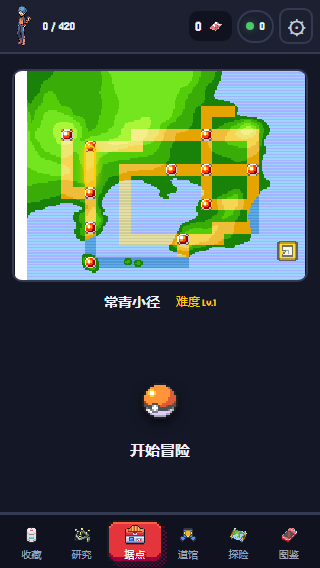
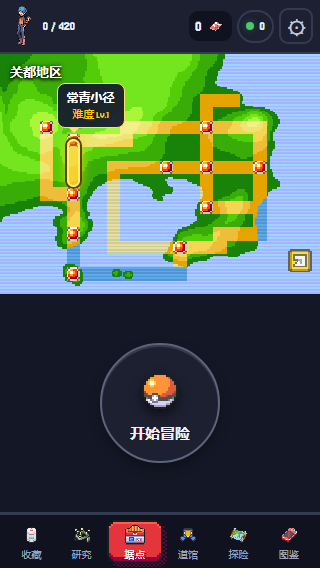
style(poke): edge-to-edge region map and circular adventure button

diff --git a/outputs/laozu-web/poke/app.js b/outputs/laozu-web/poke/app.js
@@ -39,7 +39,7 @@
   }
   function nav(){return `<nav class="bottom-nav" aria-label="主要导航">${[['collection','收藏'],['research','研究'],['home','据点'],['gym','道馆'],['wander','探险'],['dex','图鉴']].map(([id,label])=>btn('nav:'+id,icon(id)+`<span>${label}</span>`,view===id?'active':'')).join('')}</nav>`;}
   const badge=type=>`<span class="type type-${type}">${TYPES[type]||type}</span>`;
-  function home(){const chosen=M.s.selectedRoute==='viridian'||!!M.s.run;return `<main class="home-page region-home"><section class="region-panel" aria-label="关都地区"><div class="region-map"><img class="region-art" src="poke/maps/kanto.png" alt="关都地区地图" draggable="false"><button class="route-hotspot ${chosen?'chosen':''}" data-action="select-route" aria-label="选择常青小径" aria-pressed="${chosen}"><span></span></button></div><div class="route-selection">${chosen?'<strong>常青小径</strong><span>难度 Lv.1</span>':''}</div></section><section class="adventure-launch"><button class="pokeball-start" data-action="start-adventure" ${chosen?'':'disabled'} aria-label="${M.s.run?'继续冒险':'开始冒险'}"><img src="poke/items/poke-ball.png" alt="" draggable="false"><span>${M.s.run?'继续冒险':'开始冒险'}</span></button></section></main>`;}
+  function home(){const chosen=M.s.selectedRoute==='viridian'||!!M.s.run;return `<main class="home-page region-home"><section class="region-panel" aria-label="关都地区"><div class="region-map"><img class="region-art" src="poke/maps/kanto.png" alt="关都地区地图" draggable="false"><strong class="region-name">关都地区</strong><button class="route-hotspot ${chosen?'chosen':''}" data-action="select-route" aria-label="选择常青小径" aria-pressed="${chosen}"><span></span></button>${chosen?'<div class="route-bubble"><strong>常青小径</strong><span>难度 Lv.1</span></div>':''}</div></section><section class="adventure-launch"><button class="pokeball-start" data-action="start-adventure" ${chosen?'':'disabled'} aria-label="${M.s.run?'继续冒险':'开始冒险'}"><img src="poke/items/poke-ball.png" alt="" draggable="false"><span>${M.s.run?'继续冒险':'开始冒险'}</span></button></section></main>`;}
 
   function drawScreen(){const r=M.s.run;return `<main class="draw-page"><div class="draw-stars"></div><small>POKÉMON EXPEDITION</small><h1>${r?.phase==='draw'?'正在结识伙伴':'探险邀请'}</h1><p>每次探险，一位全新的宝可梦。</p><img class="summon-image ${r?'rolling':''}" src="poke/items/poke-ball.png" alt="精灵球">${r?`<p role="status">图鉴正在记录新的伙伴……</p>`:`<div class="draw-offer"><b>初始伙伴</b><div>${[1,4,7].map(id=>img(id)).join('')}</div><p>妙蛙种子 / 小火龙 / 杰尼龟 · 等概率</p></div>${btn('draw',M.s.firstFree?'免费抽取第一位伙伴':`消耗 ${M.drawCost()} 抽取点`,'gold primary',M.s.points<M.drawCost())}${!M.s.firstFree&&M.s.points<M.drawCost()?btn('rescue','领取救援补给 · 补足至3点','soft'):''}<small>抽取后直接开始本局，不消耗精灵球。</small>`}${btn('home','返回据点','text-button')}</main>`;}
   function hp(value,max){const ratio=Math.max(0,Math.min(1,value/max));return `<div class="hp" role="progressbar" aria-label="生命值" aria-valuemin="0" aria-valuemax="${max}" aria-valuenow="${Math.ceil(value)}"><div style="width:${ratio*100}%;background:${ratio>.2?'#f0607a':'#d6334f'}"></div></div>`;}

diff --git a/outputs/laozu-web/poke/battle-ui.css b/outputs/laozu-web/poke/battle-ui.css
@@ -204,3 +204,20 @@
 .pokeball-start:disabled{opacity:.4;cursor:default}
 .pokeball-start:not(:disabled):active img{transform:translateY(3px)}
 @media(max-height:650px){.region-home{padding-top:10px}.route-selection{height:40px}.adventure-launch{min-height:110px}.pokeball-start img{height:64px;width:64px}.pokeball-start{font-size:15px;gap:8px}}
+
+/* Edge-to-edge region map and a single circular launch target. */
+.region-home{padding:0;overflow:hidden}
+.region-panel{flex:none;display:block}
+.region-map{aspect-ratio:192/144;border:0;border-radius:0;background:transparent}
+.region-name{position:absolute;top:12px;left:12px;color:#fff;font-size:15px;text-shadow:0 2px 3px #000,0 0 4px #000}
+.route-hotspot{left:17%;top:34%}
+.route-hotspot.chosen span{background:#ffcb0570;border-color:#fff06a;box-shadow:0 0 0 2px #554314,0 0 12px #ffcb05}
+.route-bubble{position:absolute;left:23%;top:31%;transform:translate(-25%,-100%);display:flex;flex-direction:column;align-items:center;gap:4px;padding:9px 12px;background:#171c2df2;border:1px solid #ffdd70;border-radius:8px;pointer-events:none;color:#fff;font-size:13px;z-index:2}
+.route-bubble span{font-size:11px;color:var(--yellow)}
+.route-bubble:after{content:'';position:absolute;left:25%;top:100%;border:6px solid transparent;border-top-color:#ffdd70;transform:translateX(-50%)}
+.adventure-launch{flex:1;min-height:0}
+.pokeball-start{width:144px;height:144px;border-radius:50%;padding:12px;gap:0;justify-content:center;background:var(--panel);border:2px solid #5c657b;box-shadow:inset 0 2px 0 #ffffff20,0 5px 12px #0005;font-size:17px}
+.pokeball-start img{height:80px;width:80px}
+.pokeball-start span{line-height:24px}
+.pokeball-start:not(:disabled):active{transform:translateY(2px)}
+@media(max-height:650px){.pokeball-start{width:120px;height:120px;font-size:15px;padding:8px}.pokeball-start img{height:64px;width:64px}.region-name{font-size:13px;top:10px;left:10px}.route-bubble{padding:6px 9px;font-size:12px;gap:2px}}

diff --git a/outputs/laozu-web/index.html b/outputs/laozu-web/index.html
@@ -13,7 +13,7 @@
 <script defer src="poke/catalog.js"></script>
 <script defer src="poke/model.js"></script>
 <script defer src="poke/app.js"></script>
-<link rel="stylesheet" href="poke/battle-ui.css?v=13">
+<link rel="stylesheet" href="poke/battle-ui.css?v=14">
 </head>
 <body class="px" data-theme="dark">
 <div id="app" aria-label="宝可梦行囊探险"><main><h1>宝可梦 · 行囊探险</h1><p>正在载入伙伴资料……</p></main></div>

diff --git a/tools/rea-pipeline/build-poke-kanto.py b/tools/rea-pipeline/build-poke-kanto.py
@@ -12,4 +12,4 @@ for i,v in enumerate(struct.unpack('<600H',(root/'kanto.bin').read_bytes())):
  if v&1024:rgb=rgb.transpose(Image.Transpose.FLIP_LEFT_RIGHT)
  if v&2048:rgb=rgb.transpose(Image.Transpose.FLIP_TOP_BOTTOM)
  out.paste(rgb,(i%30*8,i//30*8))
-out.crop((16,16,216,160)).save(root.parent/'kanto.png')
+out.crop((24,16,216,160)).save(root.parent/'kanto.png')

diff --git a/tools/rea-pipeline/poke-fusion/PAGE-MAP.md b/tools/rea-pipeline/poke-fusion/PAGE-MAP.md
@@ -50,3 +50,5 @@
 - 移除首页原建筑入口及介绍段落；底部导航保留。其他页面不在本轮修改范围。
 - 素材：pret/pokefirered @ ce6406d8c2eaf46d543c8a2606de0c3cb1951982，graphics/region_map 的 tileset、palette、kanto.bin；build-poke-kanto.py 可重建。SOURCE.json 记录哈希与原始美术权属边界。常青热点对应原图西侧2号道路/常青森林区域。
 - 验证：test-poke-home.cjs 13项（选择、难度、持久化、真实抽取、已有局继续、320/390/450布局），test-poke-browser.cjs 12项冒险闭环通过。截图见 home/。
+
+首页布局修正：左上角关都地区，常青路线高亮和名称/难度气泡，地图移除外框及原图左侧白条并横向贴边；冒险图标与文字合为圆形按钮。320/390/450截图及13项首页验证通过。
